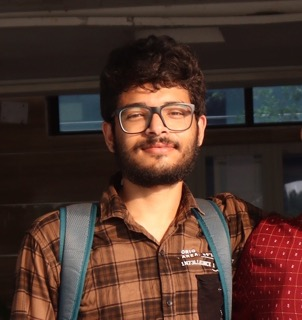
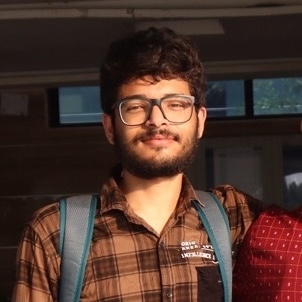
feat: add img optimisationed, ariel-labels

diff --git a/src/app/page.tsx b/src/app/page.tsx
@@ -34,7 +34,7 @@ export default function Page() {
             </div>
             <BlurFade delay={BLUR_FADE_DELAY}>
               <Avatar className="size-28 border">
-                <AvatarImage loading="lazy" alt={DATA.name} src={DATA.avatarUrl} />
+                <AvatarImage alt={DATA.name} src={DATA.avatarUrl} />
                 <AvatarFallback>{DATA.initials}</AvatarFallback>
               </Avatar>
             </BlurFade>
@@ -166,7 +166,7 @@ export default function Page() {
         <div className="grid items-center justify-center gap-4 px-4 text-center pt-6 mb-2">
           <BlurFade delay={BLUR_FADE_DELAY * 16}>
             <div className="space-y-2">
-              <Button asChild className="rounded-lg bg-foreground text-background text-xs" size="sm" variant="outline">
+              <Button name="download-resume" asChild className="rounded-lg bg-foreground text-background text-xs" size="sm" variant="outline">
                 <Link href="https://dub.sh/tanmays-resume" download className="text-xs">
                   Download Resume
                 </Link>
@@ -188,7 +188,7 @@ export default function Page() {
                               "size-8"
                             )}
                           >
-                            <social.icon className="size-4" />
+                            <social.icon className="size-4" aria-label={social.name} />
                           </Link>
                         </TooltipTrigger>
                         <TooltipContent>

diff --git a/src/components/navbar.tsx b/src/components/navbar.tsx
@@ -21,6 +21,7 @@ export default function Navbar() {
             <Tooltip>
               <TooltipTrigger asChild>
                 <Link
+                  aria-label={item.label}
                   href={item.href}
                   className={cn(
                     buttonVariants({ variant: "ghost", size: "icon" }),
@@ -83,6 +84,7 @@ export function NavbarBigScreen() {
         {DATA.navbar.map((item) => (
           <DockIcon key={item.href} magnification={0} distance={0} initWidth={120}>
             <Link
+              aria-label={item.label}
               href={item.href}
               className={cn(
                 buttonVariants({ variant: "ghost", size: 'default' }),

diff --git a/src/components/mode-toggle.tsx b/src/components/mode-toggle.tsx
@@ -14,6 +14,7 @@ export const ModeToggle = forwardRef<HTMLButtonElement, ButtonProps>((props, ref
       variant="ghost"
       type="button"
       size="icon"
+      name="theme-toggle"
       className="px-2"
       onClick={() => setTheme(theme === "dark" ? "light" : "dark")}
     >
